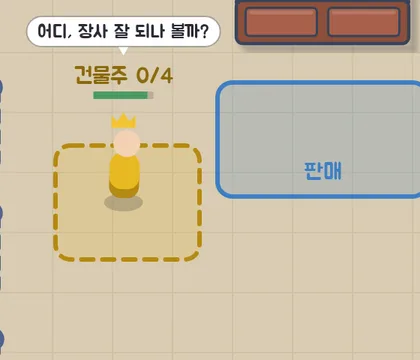
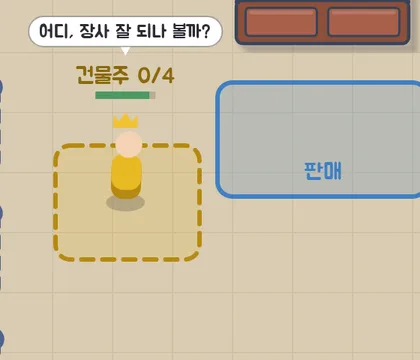
층층이: 6층 찜질방 마무리 — 소개 캡처 다시 찍기, apps.ts 6층 설명, 진행 중 메모를 히스토리로

diff --git a/app/data/apps.ts b/app/data/apps.ts
@@ -376,7 +376,7 @@ export const apps: App[] = [
 • 3층 바삭치킨: 후라이드 전기 튀김기(철망 바구니가 기름에 퐁당 → 쑥 올라와 탈탈) · 양념 가스레인지 웍(국자로 양념 주르륵 → 웍 흔들어 버무림) · 간장 숯불 화로(붓으로 쓱쓱) — 위엔 환풍기가 빙글빙글, 집게로 쟁반에
 • 4층 24시 층층편의점(실내라 천막 없음): 계산대 핫바 롤러 그릴(데굴데굴 노릇 → 쟁반에 케첩·머스터드 지그재그) · 키 큰 바나나우유 유리문 냉장고(선반 네 단 채우기 → 문 열고 꺼냄) · 3단 호빵 찜기(김 서린 유리 속에서 호빵이 부풂)
 • 5층 한강라면: 큼직한 즉석 라면 조리기 3대(왼쪽·정면·오른쪽에서 본 모습, 위엔 강변 전구줄) — 은박 용기에 면 → 꼭지에서 물 → 인덕션에서 보글보글 + 달걀·파(타이머 3:00) → 쟁반에 완성 라면, 옆엔 봉지라면 진열대
-• 6층 ♨ 층층 찜질방: 황토 불가마 맥반석 계란(아궁이 불 속에서 노릇 → 빨간 망에 셋) · 살얼음 식혜 기계(밥알이 빙빙 돌고 살얼음 → 컵에 졸졸) · 팥빙수(빙수기에서 눈꽃 얼음 → 팥·인절미·콩가루·연유). 찜질복 입은 손님과 관광객이 와요
+• 6층 ♨ 층층 찜질방: 황토 불가마 맥반석 계란(옆엔 날달걀 30구 판을 층층이 쌓고 장작 더미, 아궁이 불 속에서 노릇 → 빨간 망에 셋) · 살얼음 식혜 기계(밥알이 빙빙 돌고 살얼음 → 꼭지에서 컵에 졸졸 → 쟁반에서 플라스틱 뚜껑 닫고 빨대 쏙, 옆엔 뒤집어 쌓은 빈 컵·뚜껑) · 팥빙수(빙수기에서 눈꽃 얼음 → 쟁반에 올려 팥·인절미·콩가루·연유). 찜질복 입은 손님과 관광객이 와요
 • 7층 층층 뷰티(K화장품): 마스크팩(에센스 촉촉 → 접어서 봉투 → 실링기 꾹) · 쿠션 팩트(회전판에서 채우기 → 퍼프 톡톡 → 뚜껑 탁) · 립틴트(컨베이어 위 병에 빨간 틴트 → 분홍 뚜껑). 외국인 관광객이 많이 와요
 • 8층 층층 한복대여: 기와 지붕 간판에 청사초롱이 흔들리고 단풍잎이 떨어져요(들어오면 가야금 소리). 재단대 위에 펼쳐 놓고 — 여자 한복(다홍치마가 부채처럼 → 노랑 저고리 → 고름) · 남자 한복(바지·저고리·조끼 → 갓이 쓱) · 노리개(매듭 → 옥 → 빨간 술). 다 빌린 손님은 한복을 입고 나가요
 • 9층 층층 박물관 굿즈샵: 대리석 기둥 간판에 벽엔 조명 받는 액자(일월오봉도·산수화), 들어오면 은은한 종소리. 반가사유상(도가니 쇳물을 거푸집에 → 두 쪽이 열림) · 달항아리(물레 → 하얀 유약 → 가마) · 신라 금관(금 띠 → 出자 장식 + 망치 톡톡 → 곡옥). 체험학습 초등학생·관광객이 오고, 박물관이라 재촉도 속삭여요

diff --git a/CLAUDE.md b/CLAUDE.md
@@ -75,21 +75,20 @@ version: 'x.y.z+build'
   테마는 6층까지(사용자 확정) → 2026-10-21 7층 층층 뷰티·8층 층층 한복대여·9층 층층 박물관 굿즈샵 추가 → 2026-10-23 10층 층층 야구장 매점, 11층부터 원래 스타일(3D 프린터 + KINDS 기본 물건). THEMES에 층을 더하면 프린터가 자동으로 위로 밀림. 실제 브랜드명·로고는 쓰지 않음.
   제목 '층층이'(부제 '쌓고 팔고, 빨리빨리!') 확정. 시안: 자료실 '층층이_상가건물시안'·'층층이_1-3층가게시안'
 
-## 진행 중 — 6층 찜질방 원근·현실감 (2026-10-23, 커밋만·푸시 안 함)
-- 사용자: 왼쪽·오른쪽 방향, 그림자, 접시 방향 + 정교하게. `JJM6`(fine·ptray), `egg6`/`bing6` withVO ±VOFF, 서 있는 것 `standBox` 윗면·옆면 + `cast6` 흐린 그림자,
-  가마: 돔 벽돌 줄·아궁이 쇠테·뒤 굴뚝, 장작 `log6`(뒤로 이어진 통나무·나이테), 식혜 기계 표시창·물받이, 빙수기 머리·받침·기둥 입체(머리 깊이 7 — 깊으면 메뉴판 가림) + 칼날 원판.
-  완성품(계란망·식혜 컵·빙수)은 쟁반 가운데(`TRAY_C`)에 크게 직접 그림(테마 reveal 2).
-- 두 번째: 팥빙수 순서(사용자) — 얼음 갈기 → 쟁반으로(40~48%) → 쟁반 위에서 팥·인절미·콩가루·연유(48~74%). 식혜 줄어들 때 크림색 윗면이 뚜껑처럼 보이던 것 → 빈 칸 유리색 + 안쪽 뒤 테두리 + 액체 윗면 음영.
-- 세 번째: 형광등 뺌, 메뉴판 30 위로(`BOARD6`, JJM6 boardUp), 기계 크게·뒤로(`M6` k 1.2~1.25 + d 8, svg `m6()` · anim `map6`/R2o — 사용자: 전부 앞 끝선에 맞춰 이상), 소품 깊이 따로(장독·콩가루·팥 뒤, 인절미·연유·컵 앞),
-  날달걀 30구 종이 판을 층층이 쌓음 `eggStack6`(판 물결 가장자리 사이로 달걀 줄 + 시점 쪽 옆면, 상자처럼 막힌 것 아님 — 사용자), 식혜 컵 플라스틱 뚜껑(`sikCup` lid — 다 차면 탁, 물건 그림도), 가마 굴뚝 뺌.
-- 네 번째: 식혜 통 2/3(lvl 0.66), 꼭지 아래선 뚜껑 없이 → 쟁반에 올린 뒤 뚜껑 닫힘(80~85%), 장독·앞 컵 탑 대신 빈 플라스틱 컵 탑 + 뚜껑 더미(뒤).
-- 다섯 번째: 계란판 순서(판 → 달걀 → 다음 판, 맨 아래 판 있음·맨 위 달걀 보임), 장작 `WOOD6` 4-3-2 제각각 굵기·길이 + 껍질 결·나이테·갈라짐·부스러기, 식혜 빈 컵은 뒤집어 세 줄(입구 아래), 살얼음은 불규칙한 얼음 조각.
-- 여섯 번째: 빈 컵 탑 다섯·뚜껑 더미 둘(더 많이), 쟁반에서 뚜껑 닫은 뒤 빨대 쏙(`sikCup` straw, 물건 그림도), 받침 앞 컵 넣는 홈 + 물받이, 꼭지는 통 바닥 앞에 붙어 튀어나오게(anim이 식혜 위에 그림), 홈 안 컵 0.82배(꼭지와 틈).
-- 남은 것: 사용자 확인 → 소개 캡처·apps.ts·히스토리 → 푸시.
-
 ## 작업 히스토리
 
 ### 2026-10-23
+- 층층이 6층 찜질방 다시(사용자와 하나씩 맞춤):
+  사용자: 왼쪽·오른쪽 방향, 그림자, 접시 방향 + 정교하게. `JJM6`(fine·ptray), `egg6`/`bing6` withVO ±VOFF, 서 있는 것 `standBox` 윗면·옆면 + `cast6` 흐린 그림자,
+  가마: 돔 벽돌 줄·아궁이 쇠테·뒤 굴뚝, 장작 `log6`(뒤로 이어진 통나무·나이테), 식혜 기계 표시창·물받이, 빙수기 머리·받침·기둥 입체(머리 깊이 7 — 깊으면 메뉴판 가림) + 칼날 원판.
+  완성품(계란망·식혜 컵·빙수)은 쟁반 가운데(`TRAY_C`)에 크게 직접 그림(테마 reveal 2).
+  두 번째: 팥빙수 순서(사용자) — 얼음 갈기 → 쟁반으로(40~48%) → 쟁반 위에서 팥·인절미·콩가루·연유(48~74%). 식혜 줄어들 때 크림색 윗면이 뚜껑처럼 보이던 것 → 빈 칸 유리색 + 안쪽 뒤 테두리 + 액체 윗면 음영.
+  세 번째: 형광등 뺌, 메뉴판 30 위로(`BOARD6`, JJM6 boardUp), 기계 크게·뒤로(`M6` k 1.2~1.25 + d 8, svg `m6()` · anim `map6`/R2o — 사용자: 전부 앞 끝선에 맞춰 이상), 소품 깊이 따로(장독·콩가루·팥 뒤, 인절미·연유·컵 앞),
+  날달걀 30구 종이 판을 층층이 쌓음 `eggStack6`(판 물결 가장자리 사이로 달걀 줄 + 시점 쪽 옆면, 상자처럼 막힌 것 아님 — 사용자), 식혜 컵 플라스틱 뚜껑(`sikCup` lid — 다 차면 탁, 물건 그림도), 가마 굴뚝 뺌.
+  네 번째: 식혜 통 2/3(lvl 0.66), 꼭지 아래선 뚜껑 없이 → 쟁반에 올린 뒤 뚜껑 닫힘(80~85%), 장독·앞 컵 탑 대신 빈 플라스틱 컵 탑 + 뚜껑 더미(뒤).
+  다섯 번째: 계란판 순서(판 → 달걀 → 다음 판, 맨 아래 판 있음·맨 위 달걀 보임), 장작 `WOOD6` 4-3-2 제각각 굵기·길이 + 껍질 결·나이테·갈라짐·부스러기, 식혜 빈 컵은 뒤집어 세 줄(입구 아래), 살얼음은 불규칙한 얼음 조각.
+  여섯 번째: 빈 컵 탑 다섯·뚜껑 더미 둘(더 많이), 쟁반에서 뚜껑 닫은 뒤 빨대 쏙(`sikCup` straw, 물건 그림도), 받침 앞 컵 넣는 홈 + 물받이, 꼭지는 통 바닥 앞에 붙어 튀어나오게(anim이 식혜 위에 그림), 홈 안 컵 0.82배(꼭지와 틈).
+  소개 캡처 전부 다시, apps.ts 6층 설명.
 - 층층이 5층 한강라면 다시(사용자와 하나씩 맞춤):
   사용자: 방향·그림자·접시 방향만(두 번째: "오른쪽 방향·라면 방향 제대로") — 조리기 깊이 36(시점 쪽 옆면 확실히), 봉지라면 시점 쪽 두께, 진열대 선반 윗면, 메뉴판·전구줄 23 위로(`RAM_UP`, deck `boardUp`, 테마 `lampUp`), 글자 뒤 조리기 윗면 다시 그림. 세 대 같은 조리기 그대로, `ram5()` + `RAM5L/RAM5R`(withVO ±VOFF), deck `fine`(바닥 그림자 시점대로)·`ptray`(원근 쟁반 `pTray`), 조리기 `standBox` 윗면·옆면, 진열대 뒤 틀, 서 있는 것 흐린 그림자.
   세 번째(사용자: 간판 없이 크게, 디테일): 메뉴판·기둥 뺌(deck `noBoard`), 조리기 1.45배(`K5`, svg 묶음 transform + animRamen5의 R2·u도 같은 배율, 쟁반으로는 R2o), 봉지 진열대 오른쪽 뒤로 0.85배, 젓가락 통 뺌, 옆면 환기 구멍·조리 칸 뒷벽 골·물받이 철망·고무발.
